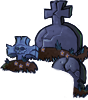
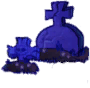
more fixes

diff --git a/Lawn/Challenge.cpp b/Lawn/Challenge.cpp
@@ -3098,12 +3098,12 @@ void Challenge::UpdatePortal(GridItem* thePortal)
 		{
 			Rect aZombieRect = aZombie->GetZombieRect();
 			int aZombieX = aZombieRect.mX + aZombieRect.mWidth / 2;
-			int aPortalX = thePortal->mGridX * 80 + 25;
+			int aPortalX = thePortal->mGridX * 80 + 25 + BOARD_ADDITIONAL_WIDTH;
 			if (abs(aZombieX - aPortalX) <= 45)
 			{
 				int aDiffX = aZombieX - aZombie->mX;
 				if (aZombie->IsWalkingBackwards()) aDiffX -= 60;
-				aZombie->mX = anOtherPortal->mGridX * 80 - aDiffX;
+				aZombie->mX = anOtherPortal->mGridX * 80 - aDiffX + BOARD_ADDITIONAL_WIDTH;
 				aZombie->mPosX = aZombie->mX;
 
 				aZombie->SetRow(anOtherPortal->mGridY);
@@ -3122,11 +3122,11 @@ void Challenge::UpdatePortal(GridItem* thePortal)
 		{
 			Rect aProjectileRect = aProjectile->GetProjectileRect();
 			int aProjectileX = aProjectileRect.mX + aProjectileRect.mWidth / 2;
-			int aPortalX = thePortal->mGridX * 80 + 55;
+			int aPortalX = thePortal->mGridX * 80 + 55 + BOARD_ADDITIONAL_WIDTH;
 			if (abs(aProjectileX - aPortalX) <= 40)
 			{
 				int aDeltaY = (anOtherPortal->mGridY - thePortal->mGridY) * 100;
-				aProjectile->mX += anOtherPortal->mGridX * 80 - aProjectileX + 60;
+				aProjectile->mX += anOtherPortal->mGridX * 80 - aProjectileX + 60 + BOARD_ADDITIONAL_WIDTH;
 				aProjectile->mPosX = aProjectile->mX;
 
 				aProjectile->mRow = anOtherPortal->mGridY;
@@ -3146,10 +3146,10 @@ void Challenge::UpdatePortal(GridItem* thePortal)
 		if (aLawnMower->mMowerState == MOWER_TRIGGERED && aLawnMower->mRow == thePortal->mGridY && aLawnMower->mLastPortalX != thePortal->mGridX)
 		{
 			int aMowerX = aLawnMower->mPosX + 45;
-			int aPortalX = thePortal->mGridX * 80 + 25;
+			int aPortalX = thePortal->mGridX * 80 + 25 + BOARD_ADDITIONAL_WIDTH;
 			if (abs(aMowerX - aPortalX) <= 20)
 			{
-				aLawnMower->mPosX = anOtherPortal->mGridX * 80 + 25;
+				aLawnMower->mPosX = anOtherPortal->mGridX * 80 + 25 + BOARD_ADDITIONAL_WIDTH;
 				aLawnMower->mRow = anOtherPortal->mGridY;
 				aLawnMower->mPosY = (anOtherPortal->mGridY - thePortal->mGridY) * 100;
 				aLawnMower->mLastPortalX = anOtherPortal->mGridX;
@@ -3382,8 +3382,8 @@ bool Challenge::CanTargetZombieWithPortals(Plant* thePlant, Zombie* theZombie)
 		GridItem* aPortal = GetPortalToRight(aGridX, aGridY);
 		if (aGridY == theZombie->mRow)
 		{
-			int aRangeLeft = aGridX * 80;
-			int aRangeRight = aPortal ? aPortal->mGridX * 80 : 800;
+			int aRangeLeft = aGridX * 80 + BOARD_ADDITIONAL_WIDTH;
+			int aRangeRight = aPortal ? aPortal->mGridX * 80 + BOARD_ADDITIONAL_WIDTH : 800 + BOARD_ADDITIONAL_WIDTH;
 			if (theZombie->mX > aRangeLeft&& theZombie->mX < aRangeRight)
 				return true;
 		}

diff --git a/Lawn/Zombie.cpp b/Lawn/Zombie.cpp
@@ -4400,7 +4400,7 @@ void Zombie::UpdateActions()
 
 void Zombie::CheckForBoardEdge()
 {
-    if (IsWalkingBackwards() && mPosX > 850.0f)
+    if (IsWalkingBackwards() && mPosX > 850.0f + BOARD_ADDITIONAL_WIDTH)
     {
         DieNoLoot();
         return;
@@ -4409,15 +4409,15 @@ void Zombie::CheckForBoardEdge()
     int aEdgeX = BOARD_EDGE;
     if (mZombieType == ZombieType::ZOMBIE_GARGANTUAR || mZombieType == ZombieType::ZOMBIE_REDEYE_GARGANTUAR || mZombieType == ZombieType::ZOMBIE_POLEVAULTER)
     {
-        aEdgeX = -150;
+        aEdgeX -= 50;
     }
     else if (mZombieType == ZombieType::ZOMBIE_CATAPULT || mZombieType == ZombieType::ZOMBIE_FOOTBALL || mZombieType == ZombieType::ZOMBIE_ZAMBONI)
     {
-        aEdgeX = -175;
+        aEdgeX -= 75;
     }
     else if (mZombieType == ZombieType::ZOMBIE_BACKUP_DANCER || mZombieType == ZombieType::ZOMBIE_DANCER || mZombieType == ZombieType::ZOMBIE_SNORKEL)
     {
-        aEdgeX = -130;
+        aEdgeX -= 30;
     }
 
     if (mX <= aEdgeX && mHasHead)
@@ -9191,16 +9191,16 @@ bool Zombie::SetupDrawZombieWon(Graphics* g)
     {
     case BackgroundType::BACKGROUND_1_DAY:
     case BackgroundType::BACKGROUND_2_NIGHT:
-        g->ClipRect(-123 - mX + BOARD_ADDITIONAL_WIDTH, -mY + BOARD_OFFSET_Y, BOARD_WIDTH, BOARD_HEIGHT);
+        g->ClipRect(-123 + BOARD_ADDITIONAL_WIDTH - mX, -mY, BOARD_WIDTH, BOARD_HEIGHT);
         break;
     case BackgroundType::BACKGROUND_3_POOL:
     case BackgroundType::BACKGROUND_4_FOG:
-        g->ClipRect(-172 - mX + BOARD_ADDITIONAL_WIDTH, -mY + BOARD_OFFSET_Y, BOARD_WIDTH, BOARD_HEIGHT);
+        g->ClipRect(-172 + BOARD_ADDITIONAL_WIDTH - mX, -mY, BOARD_WIDTH, BOARD_HEIGHT);
         break;
     case BackgroundType::BACKGROUND_5_ROOF:
     case BackgroundType::BACKGROUND_6_BOSS:
         if (mBoard->mCutScene->mCutsceneTime > 1500)
-            g->ClipRect(-220 - mX + BOARD_ADDITIONAL_WIDTH, -mY + BOARD_OFFSET_Y, BOARD_WIDTH, 187);
+            g->ClipRect(-220 + BOARD_ADDITIONAL_WIDTH - mX, -mY, BOARD_WIDTH, 187 + BOARD_OFFSET_Y);
         break;
     }
 
@@ -9517,8 +9517,8 @@ void Zombie::WalkIntoHouse()
     }
     else if (mBoard->mBackground == BackgroundType::BACKGROUND_5_ROOF || mBoard->mBackground == BackgroundType::BACKGROUND_6_BOSS)
     {
-        mPosX = -180.0f;
-        mPosY = 250.0f;
+        mPosX = -180.0f + BOARD_ADDITIONAL_WIDTH;
+        mPosY = 250.0f + BOARD_OFFSET_Y;
         mZombieHeight = ZombieHeight::HEIGHT_IN_TO_CHIMNEY;
         mRenderOrder = Board::MakeRenderOrder(RenderLayer::RENDER_LAYER_GRAVE_STONE, 0, 2);
 

diff --git a/Lawn/CutScene.cpp b/Lawn/CutScene.cpp
@@ -1448,7 +1448,7 @@ void CutScene::UpdateZombiesWon()
 	{
 		ReanimatorEnsureDefinitionLoaded(ReanimationType::REANIM_ZOMBIES_WON, true);
 		int aRenderPosition = Board::MakeRenderOrder(RenderLayer::RENDER_LAYER_SCREEN_FADE, 0, 0);
-		Reanimation* aReanimation = mApp->AddReanimation(-BOARD_OFFSET_X, BOARD_OFFSET_Y, aRenderPosition, ReanimationType::REANIM_ZOMBIES_WON);
+		Reanimation* aReanimation = mApp->AddReanimation(-BOARD_OFFSET_X + BOARD_ADDITIONAL_WIDTH, BOARD_OFFSET_Y, aRenderPosition, ReanimationType::REANIM_ZOMBIES_WON);
 		aReanimation->mAnimRate = 12.0f;
 		aReanimation->mLoopType = ReanimLoopType::REANIM_PLAY_ONCE_AND_HOLD;
 		aReanimation->GetTrackInstanceByName("fullscreen")->mTrackColor = Color::Black;
@@ -2240,7 +2240,7 @@ void CutScene::DrawIntro(Graphics* g)
 			g,
 			_S("[INTRO_PRESENTS]"),
 			BOARD_WIDTH / 2 - mBoard->mX,
-			310 - mBoard->mY,
+			310 + BOARD_OFFSET_Y - mBoard->mY,
 			FONT_BRIANNETOD16,
 			Color(255, 255, 255, anAlpha),
 			DrawStringJustification::DS_ALIGN_CENTER

diff --git a/Lawn/Board.cpp b/Lawn/Board.cpp
@@ -5912,13 +5912,13 @@ void Board::DrawBackdrop(Graphics* g)
 		Graphics aClipG(*g);
 		aClipG.SetColorizeImages(true);
 		aClipG.SetColor(GetFlashingColor(mMainCounter, 75));
-		aClipG.DrawImage(Sexy::IMAGE_SOD1ROW, 259, 265 + BOARD_OFFSET_Y);
+		aClipG.DrawImage(Sexy::IMAGE_SOD1ROW, 239 - BOARD_OFFSET_X + BOARD_ADDITIONAL_WIDTH, 265 + BOARD_OFFSET_Y);
 		aClipG.SetColorizeImages(false);
 	}
 	mChallenge->DrawBackdrop(g);
 	if (mApp->mGameScene == GameScenes::SCENE_LEVEL_INTRO && StageHasGraveStones())
 	{
-		g->DrawImage(Sexy::IMAGE_NIGHT_GRAVE_GRAPHIC, 1092, 40);
+		g->DrawImage(Sexy::IMAGE_NIGHT_GRAVE_GRAPHIC, 1092 + BOARD_ADDITIONAL_WIDTH, 30 + BOARD_OFFSET_Y);
 	}
 }
 

diff --git a/Lawn/Projectile.cpp b/Lawn/Projectile.cpp
@@ -262,13 +262,13 @@ void Projectile::CheckForCollision()
 		return;
 	}
 
-	if (mProjectileType == ProjectileType::PROJECTILE_STAR && (mPosY > 600.0f || mPosY < 0.0f))
+	if (mProjectileType == ProjectileType::PROJECTILE_STAR && (mPosY > 600.0f + BOARD_OFFSET_Y || mPosY < 0.0f + BOARD_OFFSET_Y))
 	{
 		Die();
 		return;
 	}
 
-	if ((mProjectileType == ProjectileType::PROJECTILE_PEA || mProjectileType == ProjectileType::PROJECTILE_STAR) && mShadowY - mPosY > 90.0f)
+	if ((mProjectileType == ProjectileType::PROJECTILE_PEA || mProjectileType == ProjectileType::PROJECTILE_STAR) && mShadowY - mPosY > 90.0f + BOARD_OFFSET_Y)
 	{
 		return;
 	}

diff --git a/LawnApp.cpp b/LawnApp.cpp
@@ -127,7 +127,7 @@ LawnApp::LawnApp()
 	mDebugKeysEnabled = false;
 	isFastMode = false;
 	mProdName = "PlantsVsZombies";
-	mVersion = "v2.0";
+	mVersion = "v2.1";
 	mReconVersion = "PvZ: QoTL " + mVersion;
 	std::string aTitleName = "Plants vs. Zombies: QoTL";
 	aTitleName += " " + mVersion;
